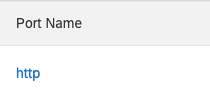
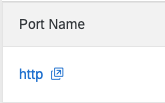
improve $item handling in display arrays (#1888)
* improve $item handling in display arrays

* added icon for externalLink and bump

* align docs

* add missing import

* changed img in docs

* added translations to ariaLabel

* change translations

* applied suggestions

diff --git a/core-ui/src/components/Extensibility/components/ExternalLink.js b/core-ui/src/components/Extensibility/components/ExternalLink.js
@@ -1,21 +1,28 @@
 import { useGetPlaceholder } from 'components/Extensibility/helpers';
-import { Link } from 'fundamental-react';
+import { Icon, Link } from 'fundamental-react';
 import { isNil } from 'lodash';
+import { useTranslation } from 'react-i18next';
 
 import { jsonataWrapper } from '../helpers/jsonataWrapper';
 
-export const ExternalLink = ({ value, schema, structure, ...props }) => {
+export const ExternalLink = ({
+  value,
+  schema,
+  structure,
+  arrayItem,
+  ...props
+}) => {
   const { emptyLeafPlaceholder } = useGetPlaceholder(structure);
+  const { t } = useTranslation();
 
-  const linkFormula = structure.linkFormula;
-  const textFormula = structure.textFormula;
+  const linkFormula = structure.link;
 
   function jsonata(formula) {
     try {
       const expression = jsonataWrapper(formula);
 
       expression.assign('root', props.originalResource);
-      expression.assign('item', value);
+      expression.assign('item', arrayItem);
 
       return expression.evaluate();
     } catch (e) {
@@ -37,7 +44,13 @@ export const ExternalLink = ({ value, schema, structure, ...props }) => {
       target="_blank"
       rel="noopener noreferrer"
     >
-      {textFormula ? jsonata(textFormula) : value}
+      {value}
+      <Icon
+        glyph="inspect"
+        size="s"
+        className="fd-margin-begin--tiny"
+        ariaLabel={t('common.ariaLabel.new-tab-link')}
+      />
     </Link>
   );
 };

diff --git a/core-ui/src/components/Extensibility/components/Widget.js b/core-ui/src/components/Extensibility/components/Widget.js
@@ -60,6 +60,7 @@ export function shouldBeVisible(value, visibilityFormula, originalResource) {
 export function Widget({
   structure,
   value,
+  arrayItem,
   inlineRenderer,
   originalResource,
   ...props
@@ -69,7 +70,7 @@ export function Widget({
 
   const childValue = useJsonata(structure.source, originalResource, {
     parent: value,
-    item: value,
+    item: arrayItem || originalResource,
   });
 
   const { visible, error: visibleCheckError } = shouldBeVisible(
@@ -121,11 +122,12 @@ export function Widget({
   const sanitizedValue = stringifyIfBoolean(childValue);
 
   return Array.isArray(childValue) && !Renderer.array ? (
-    childValue.map(item => (
+    childValue.map(valueItem => (
       <SingleWidget
         inlineRenderer={inlineRenderer}
         Renderer={Renderer}
-        value={item}
+        value={valueItem}
+        arrayItem={value}
         structure={structure}
         originalResource={originalResource}
         {...props}
@@ -136,6 +138,7 @@ export function Widget({
       inlineRenderer={inlineRenderer}
       Renderer={Renderer}
       value={sanitizedValue}
+      arrayItem={arrayItem}
       structure={structure}
       originalResource={originalResource}
       {...props}

diff --git a/core-ui/src/components/Extensibility/components/Table.js b/core-ui/src/components/Extensibility/components/Table.js
@@ -74,15 +74,18 @@ export function Table({
       }
     };
 
-    const cells = (structure.children || []).map(column => (
-      <Widget
-        value={entry}
-        structure={column}
-        schema={schema}
-        originalResource={originalResource}
-        {...props}
-      />
-    ));
+    const cells = (structure.children || []).map(column => {
+      return (
+        <Widget
+          {...props}
+          value={entry}
+          arrayItem={entry}
+          structure={column}
+          schema={schema}
+          originalResource={originalResource}
+        />
+      );
+    });
 
     if (!structure.collapsible) {
       return cells;
@@ -95,12 +98,13 @@ export function Table({
         <td colspan="100%" className={tdClassNames}>
           {structure.collapsible.map(child => (
             <Widget
+              {...props}
               value={entry}
+              arrayItem={entry}
               structure={child}
               schema={schema}
               inlineRenderer={InlineWidget}
               originalResource={originalResource}
-              {...props}
             />
           ))}
         </td>

diff --git a/core-ui/src/shared/components/Link/Link.js b/core-ui/src/shared/components/Link/Link.js
@@ -1,8 +1,11 @@
 import React from 'react';
 import PropTypes from 'prop-types';
 import { Icon } from 'fundamental-react';
+import { useTranslation } from 'react-i18next';
 
 export const Link = ({ url, text, className, children }) => {
+  const { t } = useTranslation();
+
   return (
     <a
       className={className}
@@ -15,7 +18,7 @@ export const Link = ({ url, text, className, children }) => {
         glyph="inspect"
         size="s"
         className="fd-margin-begin--tiny"
-        ariaLabel="This link will be opened in a new tab"
+        ariaLabel={t('common.ariaLabel.new-tab-link')}
       />
     </a>
   );

diff --git a/docs/extensibility/display-section.md b/docs/extensibility/display-section.md
@@ -270,19 +270,17 @@ ExternalLink widgets render the link to an external page.
 
 #### Widget-specific parameters
 
-- **linkFormula** - an optional JSONata function to generate a custom link.
-- **textFormula** - an optional string or item which is displayed as a link.
+- **link** - an optional JSONata function to generate a custom link. Default value is taken from **source**.
 
 #### Examples
 
 ##### linkFormula and textFormula usage
 
 ```yaml
-- source: '$item'
+- source: '$item.port.name'
   name: spec.servers.port.name
   widget: ExternalLink
-  linkFormula: "'https://' & $item.port.name & ':' & $string($item.port.number)"
-  textFormula: '$item.port.name'
+  link: "'https://' & $item.port.name & ':' & $string($item.port.number)"
 ```
 
 <img src="./assets/display-widgets/ExternalLink.png" alt="Example of a ExternalLink widget" width="50%" style="border: 1px solid #D2D5D9">
